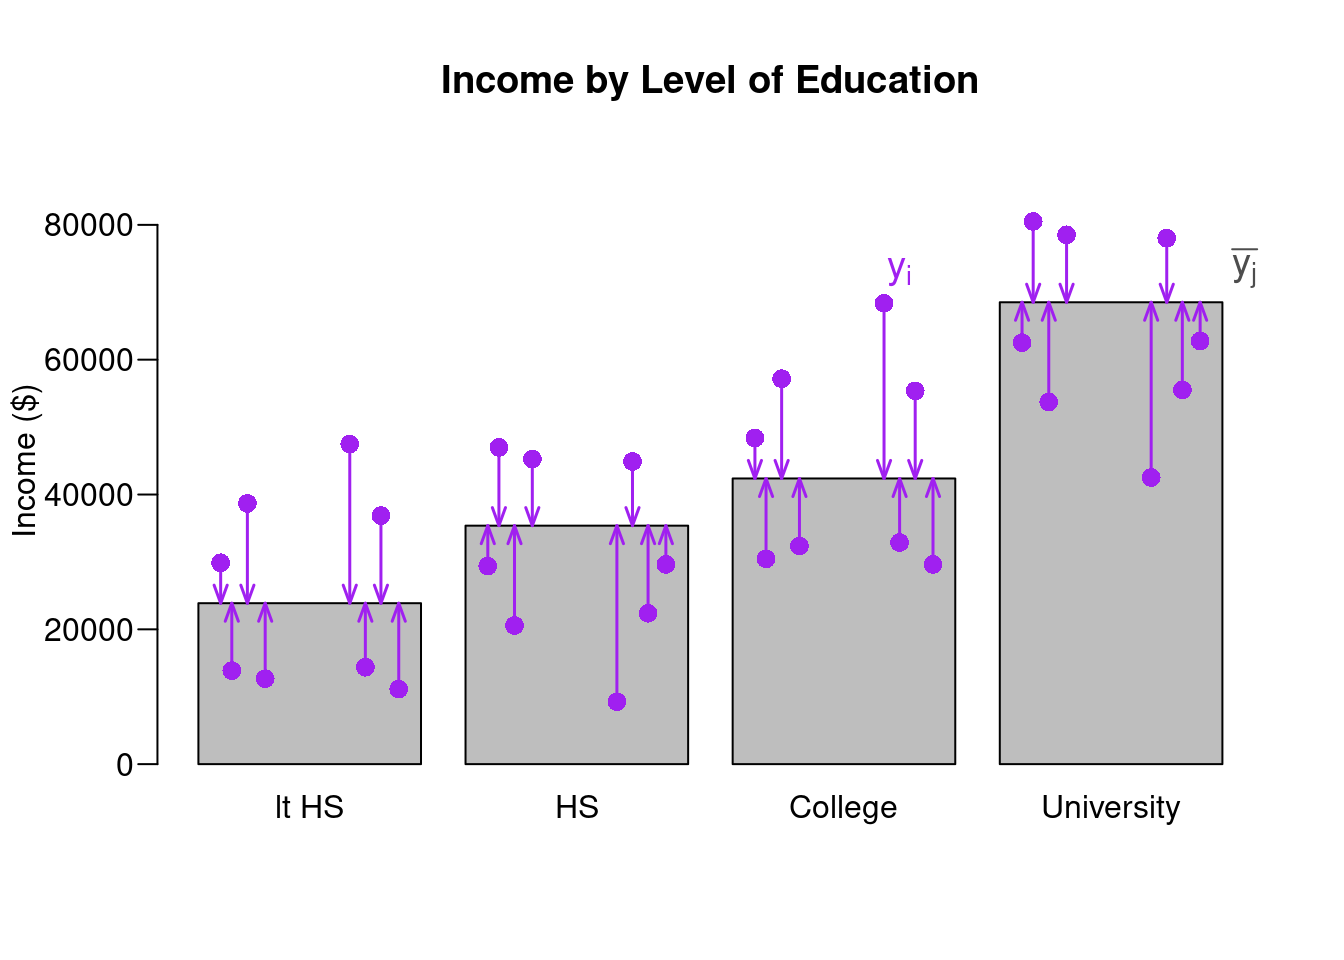
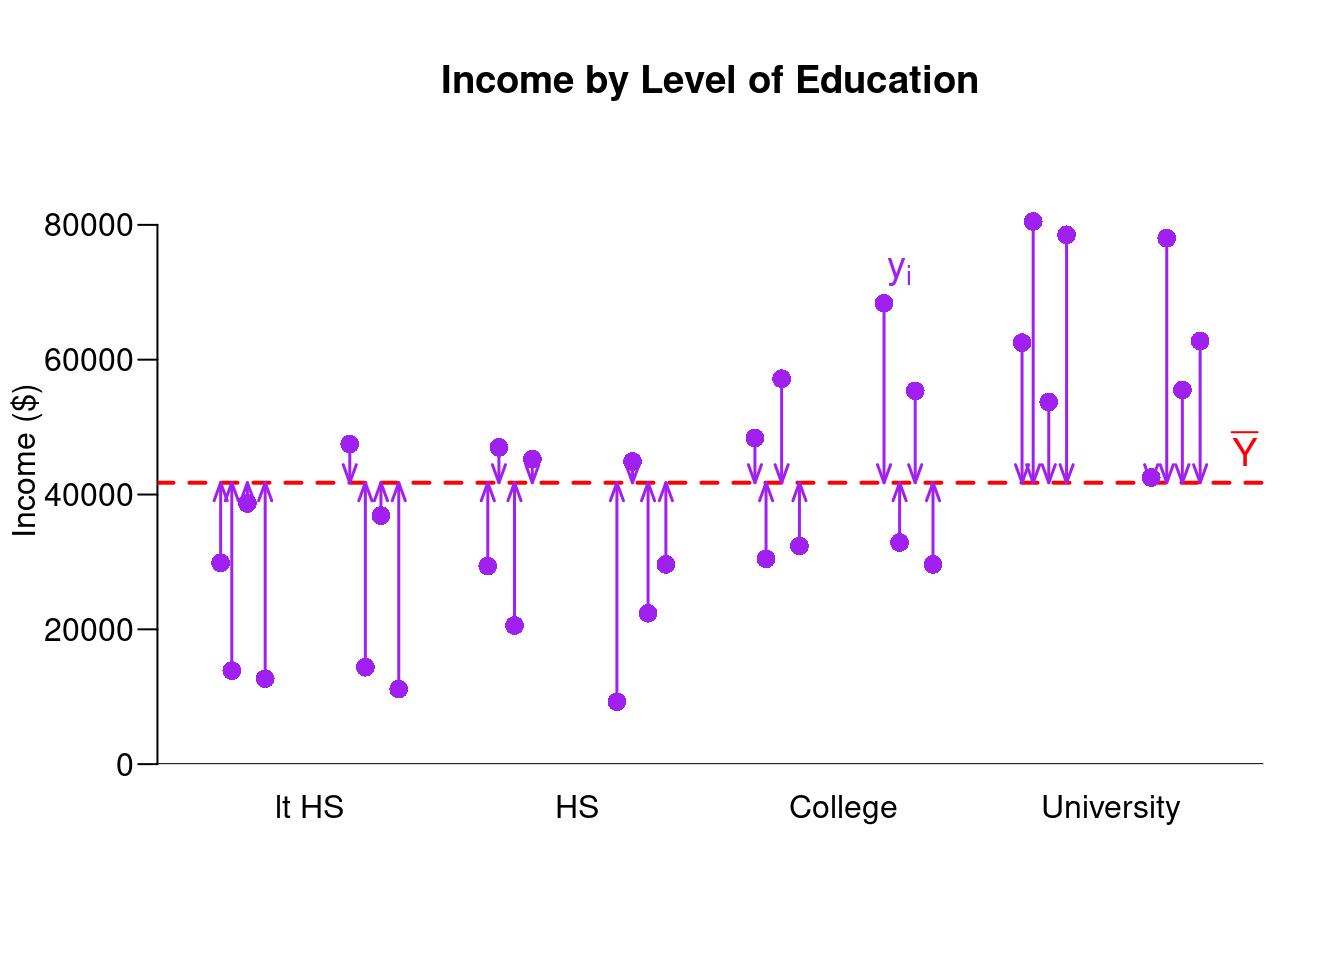
Fixed ANOVA

Changed region(s): [[0.125, 0.3125, 0.9375, 0.8125], [0.9062, 0.25, 0.9375, 0.2812]]

diff --git a/docs/04d-ANOVA.html b/docs/04d-ANOVA.html
@@ -339,6 +339,10 @@ Kruskal-Wallis Test</h1>
 </div>
 
 
+<hr />
+<hr />
+<div id="introduction" class="section level2">
+<h2>Introduction</h2>
 <p>Learning objectives of this asynchronous lesson:</p>
 <ul>
 <li>Understanding when to use ANOVA</li>
@@ -349,6 +353,7 @@ interpret the p-value</li>
 <li>Use appropriate non-parametric alterantive to ANOVA, Kruskal-Wallis,
 when the assumptions for ANOVA are not present</li>
 </ul>
+</div>
 <div id="data-set" class="section level2">
 <h2>Data set</h2>
 <p>For this set of examples, I will continue to use the sample
@@ -423,16 +428,16 @@ aggregate(study.data$EDUCATION~study.data$Educ_Cat, FUN=function(x)
             c(avg = mean(x), 
               min = min(x), 
               max = max(x))) </code></pre>
-<pre><code>##   study.data$Educ_Cat study.data$EDUCATION.avg study.data$EDUCATION.min
-## 1                   1                     34.6                     31.0
-## 2                   2                     39.0                     39.0
-## 3                   3                     40.3                     40.0
-## 4                   4                     43.6                     43.0
-##   study.data$EDUCATION.max
-## 1                     38.0
-## 2                     39.0
-## 3                     42.0
-## 4                     46.0</code></pre>
+<pre><code>&gt;   study.data$Educ_Cat study.data$EDUCATION.avg study.data$EDUCATION.min
+&gt; 1                   1                 34.61728                 31.00000
+&gt; 2                   2                 39.00000                 39.00000
+&gt; 3                   3                 40.33333                 40.00000
+&gt; 4                   4                 43.62791                 43.00000
+&gt;   study.data$EDUCATION.max
+&gt; 1                 38.00000
+&gt; 2                 39.00000
+&gt; 3                 42.00000
+&gt; 4                 46.00000</code></pre>
 <pre class="r"><code># Identify Educ_Cat as a factor variable with labels
 study.data$Educ_Cat &lt;- factor(study.data$Educ_Cat, 
                             levels = c(1:4), 
@@ -467,7 +472,7 @@ variation between groups, then the groups must be meaningfully different
 from each other.</p>
 <p>Lets look at some illustrative data points for Income by Education
 level:</p>
-<p><img src="04d-ANOVA_files/figure-html/unnamed-chunk-6-1.png" width="672" /></p>
+<p><img src="04d-ANOVA_files/figure-html/unnamed-chunk-7-1.png" width="672" /></p>
 <div id="overall-variance-in-income" class="section level4">
 <h4>Overall Variance in Income</h4>
 <p>The first thing we can consider, is the overall variance in
@@ -478,7 +483,7 @@ class="math display">\[\mathbb{V}(Income) = \frac{1}{N-1} \sum_i^N (y_i
 <p>The <span class="math inline">\(N-1\)</span> is required to make the
 sample variance unbiased, accommodating losing one degree of freedom
 that occurs from also estimating the sample average.</p>
-<p><img src="04d-ANOVA_files/figure-html/unnamed-chunk-7-1.png" width="672" /></p>
+<p><img src="04d-ANOVA_files/figure-html/unnamed-chunk-8-1.png" width="672" /></p>
 <p>When calculating the components of variance for ANOVA we will first
 focus on the sum of squares part and drop the <span
 class="math inline">\(\frac{1}{N-1}\)</span> scaling factor. We will
@@ -495,7 +500,7 @@ groups</em>.</p>
 <p>Let’s break down the sum of squared total into the two sources of
 variance.</p>
 <p>So, let’s look at the sum of squared within groups:</p>
-<p><img src="04d-ANOVA_files/figure-html/unnamed-chunk-8-1.png" width="672" /></p>
+<p><img src="04d-ANOVA_files/figure-html/unnamed-chunk-9-1.png" width="672" /></p>
 <p>Sum of squares within groups: <span
 class="math display">\[\mathbb{SS}_W = \sum_j^J \sum_{i \in j}^{} (y_i -
 \bar{y_j})^2 \]</span></p>
@@ -511,7 +516,7 @@ we calculate square the difference between the group mean and the
 overall mean. To put this number on the same scale at the sum of squares
 within group, we multiply the value by the sample size for each
 group.</p>
-<p><img src="04d-ANOVA_files/figure-html/unnamed-chunk-9-1.png" width="672" /></p>
+<p><img src="04d-ANOVA_files/figure-html/unnamed-chunk-10-1.png" width="672" /></p>
 <p>Sum of squares between groups: <span
 class="math display">\[\mathbb{SS}_B = \sum_j^J N_j (\bar{y_j} -
 \bar{Y})^2 \]</span></p>
@@ -561,7 +566,7 @@ class="math inline">\(N-J\)</span> and <span
 class="math inline">\(J-1\)</span> degrees of freedom.</p>
 <p><span class="math display">\[F = \frac{\mathbb{SS}_B / (J -
 1)}{\mathbb{SS}_W / (N - J)}\]</span> #### Calculating the p-value</p>
-<p><img src="04d-ANOVA_files/figure-html/unnamed-chunk-10-1.png" width="672" /></p>
+<p><img src="04d-ANOVA_files/figure-html/unnamed-chunk-11-1.png" width="672" /></p>
 <p>Recall that the null hypothesis is that all groups have the same
 average.</p>
 <p>When the p-value is more than 0.05, we do not reject the null
@@ -585,27 +590,27 @@ the same!)</p>
 <p>There are several approaches to doing an ANOVA in R.</p>
 <pre class="r"><code>## Method 1. 
 anova(lm(study.data$INCOME ~ study.data$Educ_Cat))</code></pre>
-<pre><code>## Analysis of Variance Table
-## 
-## Response: study.data$INCOME
-##                      Df       Sum Sq     Mean Sq F value              Pr(&gt;F)
-## study.data$Educ_Cat   3  93339883554 31113294518    43.7 &lt;0.0000000000000002
-## Residuals           396 282216861883   712668843                            
-##                        
-## study.data$Educ_Cat ***
-## Residuals              
-## ---
-## Signif. codes:  0 &#39;***&#39; 0.001 &#39;**&#39; 0.01 &#39;*&#39; 0.05 &#39;.&#39; 0.1 &#39; &#39; 1</code></pre>
+<pre><code>&gt; Analysis of Variance Table
+&gt; 
+&gt; Response: study.data$INCOME
+&gt;                      Df       Sum Sq     Mean Sq F value                Pr(&gt;F)
+&gt; study.data$Educ_Cat   3  93339883554 31113294518  43.657 &lt; 0.00000000000000022
+&gt; Residuals           396 282216861883   712668843                              
+&gt;                        
+&gt; study.data$Educ_Cat ***
+&gt; Residuals              
+&gt; ---
+&gt; Signif. codes:  0 &#39;***&#39; 0.001 &#39;**&#39; 0.01 &#39;*&#39; 0.05 &#39;.&#39; 0.1 &#39; &#39; 1</code></pre>
 <pre class="r"><code>## Method 2. 
 summary(aov(study.data$INCOME ~ study.data$Educ_Cat))</code></pre>
-<pre><code>##                      Df       Sum Sq     Mean Sq F value              Pr(&gt;F)
-## study.data$Educ_Cat   3  93339883554 31113294518    43.7 &lt;0.0000000000000002
-## Residuals           396 282216861883   712668843                            
-##                        
-## study.data$Educ_Cat ***
-## Residuals              
-## ---
-## Signif. codes:  0 &#39;***&#39; 0.001 &#39;**&#39; 0.01 &#39;*&#39; 0.05 &#39;.&#39; 0.1 &#39; &#39; 1</code></pre>
+<pre><code>&gt;                      Df       Sum Sq     Mean Sq F value              Pr(&gt;F)
+&gt; study.data$Educ_Cat   3  93339883554 31113294518   43.66 &lt;0.0000000000000002
+&gt; Residuals           396 282216861883   712668843                            
+&gt;                        
+&gt; study.data$Educ_Cat ***
+&gt; Residuals              
+&gt; ---
+&gt; Signif. codes:  0 &#39;***&#39; 0.001 &#39;**&#39; 0.01 &#39;*&#39; 0.05 &#39;.&#39; 0.1 &#39; &#39; 1</code></pre>
 </div>
 <div id="step-by-step-anova" class="section level2">
 <h2>Step-by-Step ANOVA</h2>
@@ -658,8 +663,8 @@ data. Therefore, the observations are independent.</p></li>
 <h4>Step 4. Consider assumption 3</h4>
 <p>We will use histograms and QQ plots to evaluate the Normality of the
 data.</p>
-<p><img src="04d-ANOVA_files/figure-html/unnamed-chunk-12-1.png" width="672" /></p>
-<p><img src="04d-ANOVA_files/figure-html/unnamed-chunk-14-1.png" width="672" /></p>
+<p><img src="04d-ANOVA_files/figure-html/unnamed-chunk-13-1.png" width="672" /></p>
+<p><img src="04d-ANOVA_files/figure-html/unnamed-chunk-15-1.png" width="672" /></p>
 <p>Observations: South and West region look least Normally distributed
 in both the histograms and the QQ plots. This, at best, weakly satisfies
 the Normal assumption because ANOVA is quite tolerant to violations in
@@ -708,11 +713,11 @@ names(income.summary) &lt;- c(&quot;Region&quot;, &quot;avg&quot;, &quot;n&quot;
 
 # print the table
 income.summary</code></pre>
-<pre><code>##   Region   avg   n        var    sd   se lower95 upper95
-## 1  North 48174  91 1035532470 32180 3373   41562   54786
-## 2   East 40082 107  597591741 24446 2363   35450   44713
-## 3  South 41390 122 1128104667 33587 3041   35430   47350
-## 4   West 37224  80  972227879 31181 3486   30392   44057</code></pre>
+<pre><code>&gt;   Region      avg   n        var       sd       se  lower95  upper95
+&gt; 1  North 48173.99  91 1035532470 32179.69 3373.348 41562.35 54785.63
+&gt; 2   East 40081.57 107  597591741 24445.69 2363.254 35449.68 44713.46
+&gt; 3  South 41390.29 122 1128104667 33587.27 3040.848 35430.33 47350.24
+&gt; 4   West 37224.46  80  972227879 31180.57 3486.094 30391.84 44057.08</code></pre>
 </div>
 <div id="boxplot" class="section level4">
 <h4>BoxPlot</h4>
@@ -723,7 +728,7 @@ boxplot(study.data$INCOME ~ study.data$REGION,
         ylab = &quot;&quot;,
         main = &quot;Box plot of income, by Region&quot;,
         xlab = &quot;Region&quot;)</code></pre>
-<p><img src="04d-ANOVA_files/figure-html/unnamed-chunk-16-1.png" width="672" /></p>
+<p><img src="04d-ANOVA_files/figure-html/unnamed-chunk-17-1.png" width="672" /></p>
 <p>There are some differences in the width of the interquartile range
 (indicated by the whiskers in the boxplot) and in the standard
 deviations (lowest at 24K and highest at 33K), but overall I would
@@ -745,10 +750,10 @@ where each observation is independent of other observations</li>
 ##  H0: All the samples come from a population with the same variance
 
 leveneTest(study.data$INCOME ~ study.data$REGION)</code></pre>
-<pre><code>## Levene&#39;s Test for Homogeneity of Variance (center = median)
-##        Df F value Pr(&gt;F)
-## group   3    1.38   0.25
-##       396</code></pre>
+<pre><code>&gt; Levene&#39;s Test for Homogeneity of Variance (center = median)
+&gt;        Df F value Pr(&gt;F)
+&gt; group   3  1.3838 0.2473
+&gt;       396</code></pre>
 <p>We observe a p-value of 0.25 indicating that we cannot reject the
 null hypothesis that the samples share a common variance. As such, we
 have satisfied Assumption 4 (homogeneity of variances).</p>
@@ -765,12 +770,12 @@ reassure myself, I will also do a Kruskall-Wallis test.</p>
 run the test and interpret the findings.</p>
 <pre class="r"><code># H0: Families have the same average income across regions
 anova(lm(study.data$INCOME ~ study.data$REGION))</code></pre>
-<pre><code>## Analysis of Variance Table
-## 
-## Response: study.data$INCOME
-##                    Df       Sum Sq    Mean Sq F value Pr(&gt;F)
-## study.data$REGION   3   5707431351 1902477117    2.04   0.11
-## Residuals         396 369849314086  933962914</code></pre>
+<pre><code>&gt; Analysis of Variance Table
+&gt; 
+&gt; Response: study.data$INCOME
+&gt;                    Df       Sum Sq    Mean Sq F value Pr(&gt;F)
+&gt; study.data$REGION   3   5707431351 1902477117   2.037 0.1082
+&gt; Residuals         396 369849314086  933962914</code></pre>
 </div>
 <div id="step-7.-interpret-and-present-the-results"
 class="section level4">
@@ -794,7 +799,7 @@ barplot_obj &lt;- barplot(income.summary$avg,
 arrows(x0 = barplot_obj, y0 = income.summary$upper95,      # position of the upper end of bars
        x1 = barplot_obj, y1 = income.summary$lower95,       # position of the lower end of bars
        angle = 90, code = 3, length = 0.1)                                        # features of the error bars</code></pre>
-<p><img src="04d-ANOVA_files/figure-html/unnamed-chunk-19-1.png" width="672" /></p>
+<p><img src="04d-ANOVA_files/figure-html/unnamed-chunk-20-1.png" width="672" /></p>
 </div>
 </div>
 </div>
@@ -828,11 +833,11 @@ false finding.</p>
 ANOVA.</p>
 <pre class="r"><code># H0:  All groups come from the same distribution
 kruskal.test(study.data$INCOME ~ study.data$REGION)</code></pre>
-<pre><code>## 
-##  Kruskal-Wallis rank sum test
-## 
-## data:  study.data$INCOME by study.data$REGION
-## Kruskal-Wallis chi-squared = 9, df = 3, p-value = 0.02</code></pre>
+<pre><code>&gt; 
+&gt;   Kruskal-Wallis rank sum test
+&gt; 
+&gt; data:  study.data$INCOME by study.data$REGION
+&gt; Kruskal-Wallis chi-squared = 9.457, df = 3, p-value = 0.02379</code></pre>
 <p>We observe a p-value of 0.02. Therefore, we reject the null
 hypothesis that the average income is the same across regions. ’</p>
 <p>This finding contradicts our previous finding using ANOVA. When an
